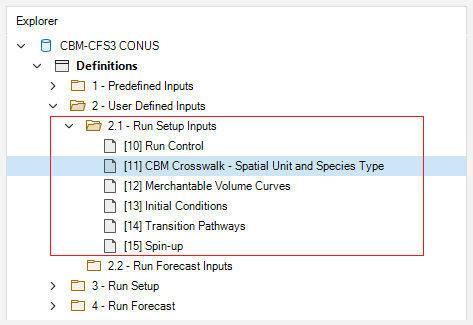
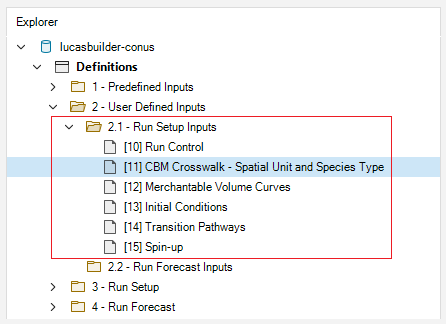
several updates
Updates screencaps with new library name
adds library description

Changed region(s): [[0.0291, 0.1235, 0.991, 0.9568], [0.0291, 0.0309, 0.1457, 0.0926], [0.0291, 0.1235, 0.0583, 0.1543]]

diff --git a/docs/getting_started.md b/docs/getting_started.md
@@ -74,18 +74,21 @@ The crosswalk datasheet allows a user to associate each forest type to a CBM equ
 <br>
 >**Note:** In the example, the **ST-Sim Stratum**, **ST-Sim Secondary Stratum**, and **Average Temperature** columns have been populated and hidden for image clarity. In a custom library, users will need to manually set values for these columns.
 
-Looking at the **Spin-up** scenario, we see that each ST-Sim State Class defined in the species crosswalk has been linked with each transition (disturbance) type.   
+Looking at the **Spin-up** scenario, we see that each ST-Sim State Class defined in the species crosswalk has been linked with each transition (disturbance) type.
 <br>
 <img align="middle" style="padding: 3px" width="975" src="assets/images/screencap-3_4.png">
 <br>
+
 Merchantable volume curves need to be added to the **Merchantable Volume Curve** scenario for each ST-Sim State Class defined in the species crosswalk.
 <br>
-<img align="middle" style="padding: 3px" width="975" src="">
+<img align="middle" style="padding: 3px" width="975" src="assets/images/screencap-3_5.png">
 <br>
+
 When all scenarios in the **User Defined Inputs** folder are populated, the **Run Setup** scenarios can be run.
 <br>
-<img align="middle" style="padding: 3px" width="500" src="assets/images/screencap-3_5.png">
+<img align="middle" style="padding: 3px" width="500" src="assets/images/screencap-3_6.png">
 <br>
+
 Click on the scenarios in the **Run Setup** and **Run Forecast** folders to view the scenario dependencies and familiarize yourself with each scenario's inputs. 
 The **CBM Output** scenario has already been run, so you will also see a *Results* folder within this scenario.
 
@@ -93,15 +96,15 @@ Open the **CBM Output** scenario and select **Pipeline** from the **General** ta
 
 Now select **Datafeeds** from the **General** tab to see the scenario's active datasheets. 
 <br>
-<img align="middle" style="padding: 3px" width="975" src="assets/images/screencap-3_6.png">
+<img align="middle" style="padding: 3px" width="975" src="assets/images/screencap-3_7.png">
 <br>
 Open the Result Scenario for **CBM Output**. 
 <br>
-<img align="middle" style="padding: 3px" width="500" src="assets/images/screencap-3_7.png">
+<img align="middle" style="padding: 3px" width="500" src="assets/images/screencap-3_8.png">
 <br>
 Looking at **Datafeeds**, notice that the **State Attribute Values** datasheet was populated as a result of running the **CBM Output** scenario. 
 <br>
-<img align="middle" style="padding: 3px" width="975" src="assets/images/screencap-3_8.png">
+<img align="middle" style="padding: 3px" width="975" src="assets/images/screencap-3_9.png">
 <br>
 
 Following the steps above, view the *Run Stage* and input and output **Datafeeds** for the **Calculate Flow Rates** and **Run Spin-up** scenarios.
